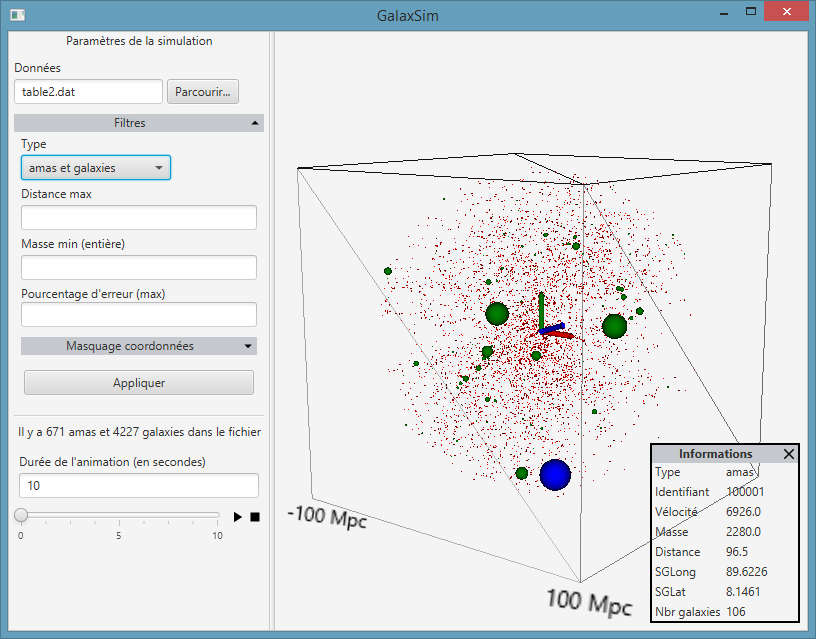
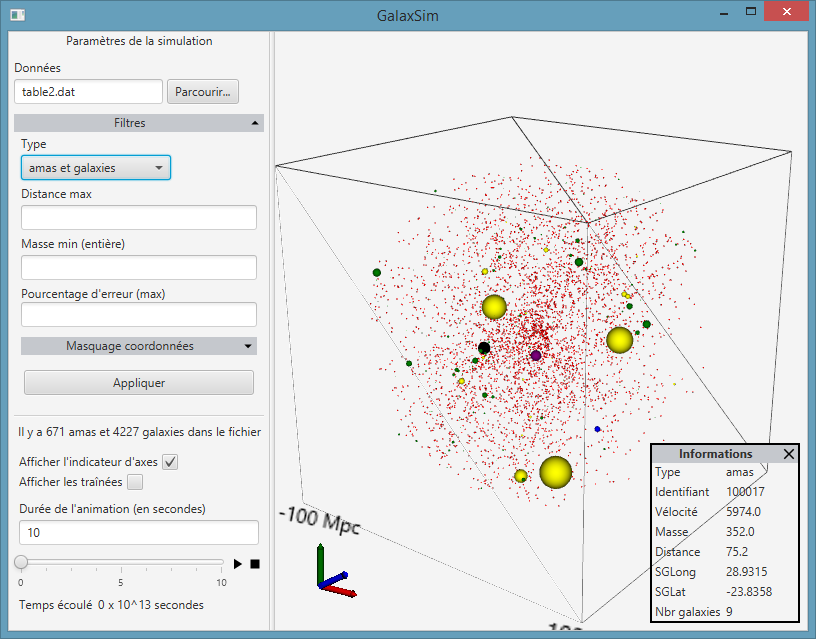
Affichage des amas principaux dans une autre couleur.

diff --git a/src/fr/istic/galaxsim/gui/CosmosElementInfos.java b/src/fr/istic/galaxsim/gui/CosmosElementInfos.java
@@ -90,7 +90,13 @@ public class CosmosElementInfos extends VBox {
      * @param e element a afficher
      */
     private void setGlobalInfos(CosmosElement e) {
-        identLabel.setText(String.valueOf(e.getIdent()));
+        if(e.getName() != null) {
+            identLabel.setText(e.getName());
+        }
+        else {
+            identLabel.setText(String.valueOf(e.getIdent()));
+        }
+
         velocityLabel.setText(String.valueOf(e.getVelocity()));
         distanceLabel.setText(String.valueOf(e.getDistance()));
         sglongLabel.setText(String.valueOf(e.getSuperGalacticLon()));

diff --git a/README.md b/README.md
@@ -8,7 +8,12 @@ Lien utiles :
 
 GalaxSim est un logiciel qui permet de visualiser le mouvement des galaxies
 qui nous entourent en simulant leurs déplacements.<br>
-La visualisation est centrée sur notre galaxie
+La visualisation est centrée sur notre amas local (la Voie lactée).
+Les sphères rouges représentent des galaxies et les sphères d'une autre couleur représentent des amas :
+
+* [Amas de la vierge](https://fr.wikipedia.org/wiki/Amas_de_la_Vierge) : couleur noire
+* [Amas du Centaure](https://fr.wikipedia.org/wiki/Amas_du_Centaure) : couleur violette
+* Amas non nommés : couleur jaune
 
 ![Capture d'écran du logiciel](galaxsim.png)
 
